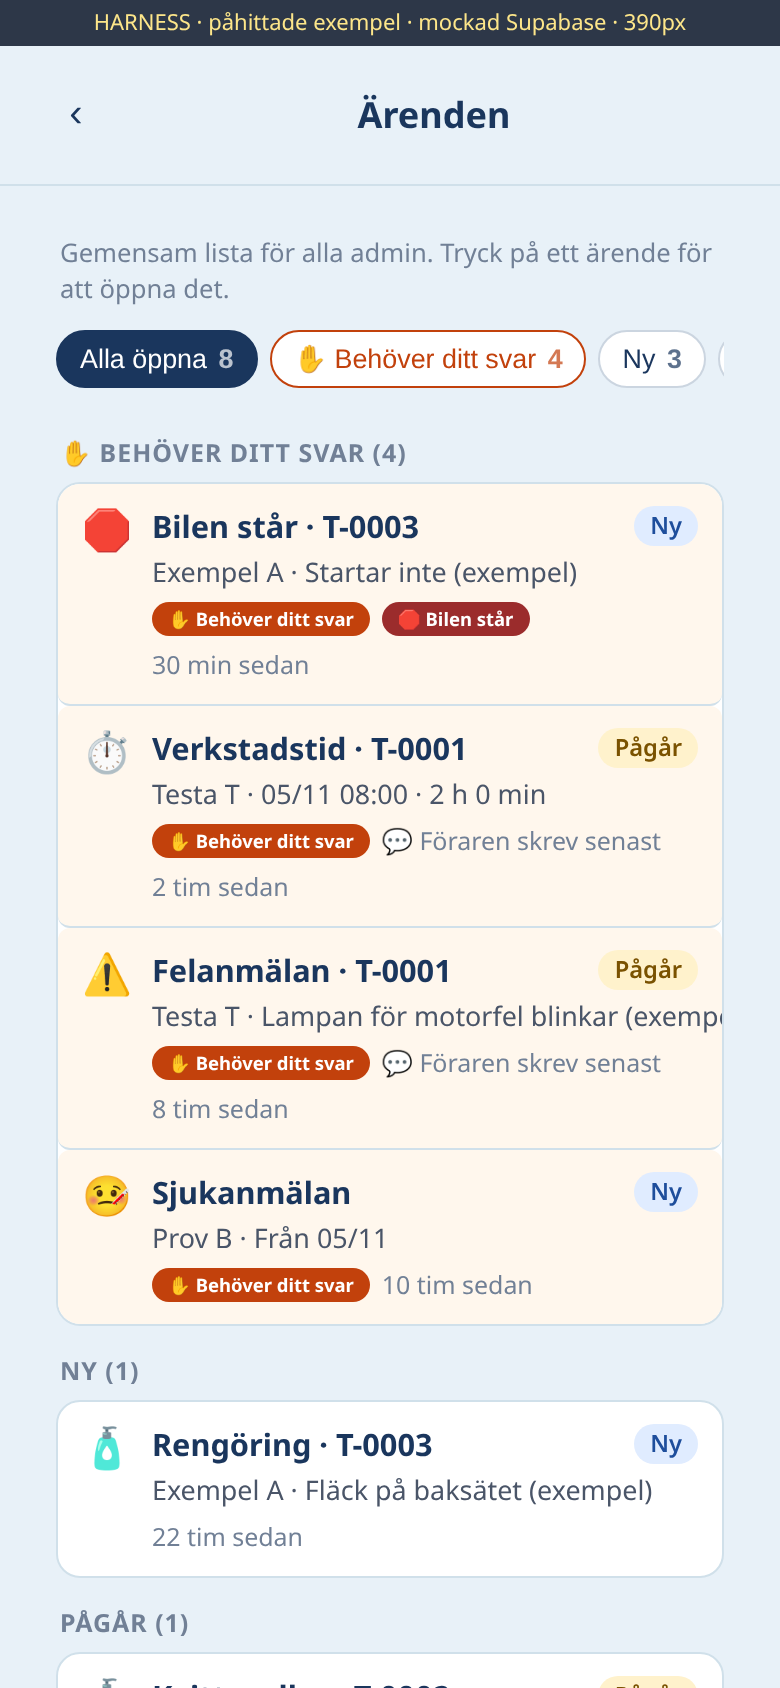
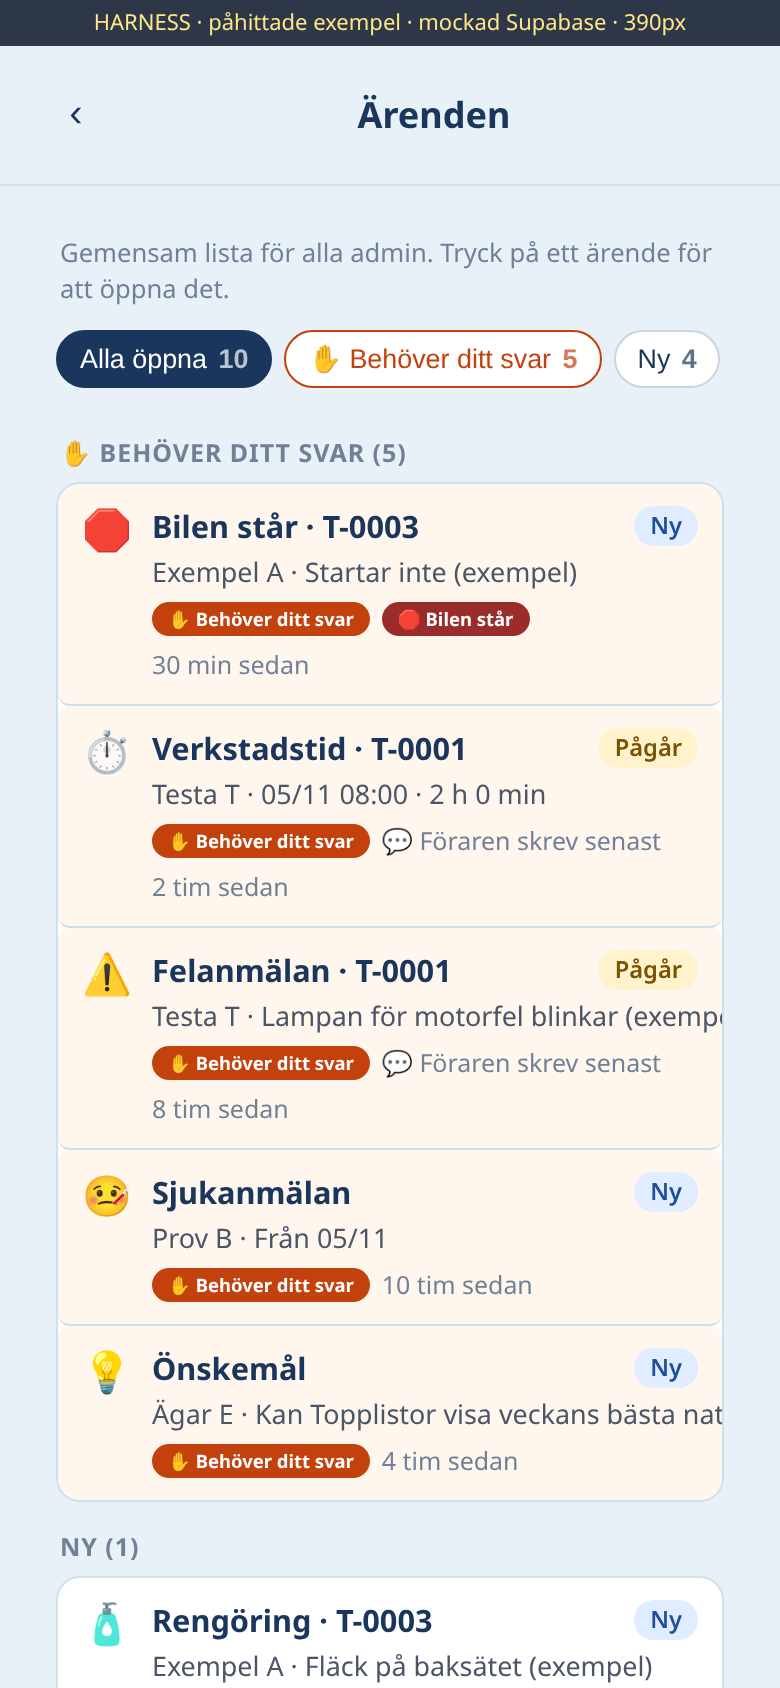
Inkorg: önskemål i Ärenden, klara göms aldrig (hämtas i omgångar), migration 20261106f

diff --git a/TaxiData/arenden-admin.js b/TaxiData/arenden-admin.js
@@ -1,18 +1,18 @@
 /* Admin › Ärenden – gemensam ärendelista för ägaren och S admin (2026-11-06, Christians "kör" t962u)
  * Inte en personlig inkorg: alla admin ser samma lista. Nya och olösta först, kompakt lista med rubriker.
  * Tryck på ett ärende för att öppna det separat, med verktyg: ändra status och svara (som en mejlkorg med adminverktyg).
- * Klara ärenden är ihopfällda ("Visa klara (N)"). Filter per status. "Behöver ditt svar" markeras tydligt.
- * Servern: case_admin_list, case_get, case_seen (supabase/migrations/20261106e_inkorg_arenden.sql).
+ * Klara ärenden är ihopfällda ("Visa klara (N)") men tas aldrig bort på grund av ålder. Önskemål (ägaren → Christian) finns med. Filter per status. "Behöver ditt svar" markeras tydligt.
+ * Servern: case_admin_list, case_get, case_seen (supabase/migrations/20261106f_inkorg_arenden.sql).
  * Verktygen använder de vanliga funktionerna: set_car_issue_status, car_issue_message, admin_workshop_decide,
  * workshop_ask, sjuk_decide. Inget nytt sätt att ändra ärenden.
  */
 (function () {
   var A = window.ARENDE, esc = A.esc;
   var R = window.ARENDEN_ADMIN = {};
-  var st = { data: null, err: null, filter: 'alla', showDone: false, open: null, cur: null, busy: false, el: null };
+  var st = { data: null, err: null, filter: 'alla', showDone: false, open: null, cur: null, busy: false, el: null, klarLim: 300 };
 
   R.count = function () {
-    return A.rpc('case_admin_list', {}).then(function (d) { st.data = d || { items: [] }; st.err = null; return R.needs(); })
+    return A.rpc('case_admin_list', { p_klar_limit: st.klarLim }).then(function (d) { st.data = d || { items: [] }; st.err = null; return R.needs(); })
       .catch(function (e) { st.err = e; return 0; });
   };
   R.needs = function () { return ((st.data && st.data.items) || []).filter(function (x) { return x.needs; }).length; };
@@ -31,6 +31,8 @@
   R.isOpen = function () { return !!st.open; };
   R.filter = function (f) { st.filter = f; paint(); };
   R.toggleDone = function () { st.showDone = !st.showDone; paint(); };
+  // Klara sparas för alltid (underlag); de hämtas i omgångar
+  R.more = function () { st.klarLim += 300; R.load(); };
   R.tap = function (kind, id) { R.openCase(kind, id); try { window.scrollTo(0, 0); } catch (e) {} };
 
   function row(x) {
@@ -63,8 +65,12 @@
       h += group('Väntar på svar från föraren', o.filter(function (x) { return !x.needs && x.st === 'vantar'; }));
       if (!o.length) h += '<div class="ar-list"><div class="ar-empty">Inga öppna ärenden. 👍</div></div>';
       if (sp.done.length) {
-        h += '<button type="button" class="ar-more" onclick="ARENDEN_ADMIN.toggleDone()">' + (st.showDone ? 'Dölj klara' : 'Visa klara (' + sp.done.length + ')') + '</button>';
-        if (st.showDone) h += '<div class="ar-list" style="margin-top:8px">' + sp.done.map(row).join('') + '</div>';
+        var tot = Math.max(st.data.klar_total || 0, sp.done.length);
+        h += '<button type="button" class="ar-more" onclick="ARENDEN_ADMIN.toggleDone()">' + (st.showDone ? 'Dölj klara' : 'Visa klara (' + tot + ')') + '</button>';
+        if (st.showDone) {
+          h += '<div class="ar-list" style="margin-top:8px">' + sp.done.map(row).join('') + '</div>';
+          if (tot > sp.done.length) h += '<button type="button" class="ar-more" onclick="ARENDEN_ADMIN.more()">Visa fler klara (' + (tot - sp.done.length) + ' till)</button>';
+        }
       }
     } else {
       var t = st.filter === 'needs' ? '✋ Behöver ditt svar' : A.WORDS[st.filter];
@@ -98,6 +104,8 @@
         (d.status !== 'avslagen' ? btn('Avslå (Klar)', "ARENDEN_ADMIN.act('avslagen')") : '') +
         (d.status !== 'ny' ? btn('↩ Öppna igen', "ARENDEN_ADMIN.act('ny')") : '') + '</div>' +
         '<div class="ar-note">Sjuklön och intyg hanteras som förut under Anmälningar & ärenden › Sjuk.</div>';
+    } else if (k === 'wish') {
+      h += '<div class="ar-note" style="margin-top:0">Önskemål till Christian. Status och svar sätts av Christian (via assistenten), inte här.</div>';
     } else if (k === 'task') {
       h += '<div class="ar-btns">' + btn('Öppna uppgiften i appen', "VERKSTAD_ADMIN.openApp('uppg')", 'pri') + '</div>';
     }

diff --git a/TaxiData/inkorg.js b/TaxiData/inkorg.js
@@ -2,13 +2,13 @@
  * Mina egna ärenden: felanmälan, behövs till bilen, verkstadstid, uppgift, sjukanmälan, önskemål.
  * Varje ärende är en tråd. Klockan (🔔) är kvar för notiser: när ägaren svarar på ett öppet ärende hamnar
  * svaret i tråden här och klockan får en kort notis som leder hit. Läser man svaret försvinner båda.
- * Servern: case_inbox, case_get, case_seen (supabase/migrations/20261106e_inkorg_arenden.sql).
+ * Servern: case_inbox, case_get, case_seen (supabase/migrations/20261106f_inkorg_arenden.sql).
  * Svar skickas med de vanliga funktionerna: car_issue_message (ärende), workshop_reply (verkstadstid).
  */
 (function () {
   var A = window.ARENDE, esc = A.esc;
   var I = window.INKORG = { id: 'inkorg', title: 'Inkorg' };
-  var st = { data: null, err: false, filter: 'alla', showDone: false, open: null, cur: null, busy: false, el: null };
+  var st = { data: null, err: false, filter: 'alla', showDone: false, open: null, cur: null, busy: false, el: null, klarLim: 300 };
 
   function badge() {
     var d = st.data || {}, n = (d.items || []).filter(function (x) { return x.needs || x.unread > 0; }).length;
@@ -20,7 +20,7 @@
   }
   I.refresh = function () {
     if (!localStorage.getItem('taxi_session')) return Promise.resolve();
-    return A.rpc('case_inbox', {}).then(function (d) { st.data = d || { items: [] }; st.err = false; badge(); if (st.el && !st.open) paint(); })
+    return A.rpc('case_inbox', { p_klar_limit: st.klarLim }).then(function (d) { st.data = d || { items: [] }; st.err = false; badge(); if (st.el && !st.open) paint(); })
       .catch(function (e) { if (e && e.code === '28000') return; st.err = true; if (st.el && !st.open) paint(); });
   };
   I.start = function () { I.refresh(); if (!I._t) I._t = setInterval(function () { if (!document.hidden) I.refresh(); }, 120000); };
@@ -46,6 +46,8 @@
   I.isAdmin = function () { return ['agare', 'superadmin'].indexOf(String(window.INKORG_ROLE || '')) >= 0; };
   I.filter = function (f) { st.filter = f; paint(); };
   I.toggleDone = function () { st.showDone = !st.showDone; paint(); };
+  // Klara sparas för alltid; de hämtas i omgångar så att listan går snabbt
+  I.more = function () { st.klarLim += 300; I.refresh(); };
   I.tap = function (kind, id) {
     st.open = { kind: kind, id: +id }; st.cur = null;
     try { history.pushState({ view: 'inkorg', c: kind + ':' + id }, ''); } catch (e) {}
@@ -78,8 +80,12 @@
       else if (!(st.filter === 'alla' && needs.length)) h += '<div class="ar-list"><div class="ar-empty">Inget här just nu. 👍</div></div>';
       if (sp.done.length) {
         var dn = sp.done.filter(function (x) { return x.unread > 0; }).length;
-        h += '<button type="button" class="ar-more" onclick="INKORG.toggleDone()">' + (st.showDone ? 'Dölj klara' : 'Visa klara (' + sp.done.length + ')' + (dn ? ' · ● ' + dn + ' nytt' : '')) + '</button>';
-        if (st.showDone) h += '<div class="ar-list" style="margin-top:8px">' + sp.done.map(row).join('') + '</div>';
+        var tot = Math.max(d.klar_total || 0, sp.done.length);
+        h += '<button type="button" class="ar-more" onclick="INKORG.toggleDone()">' + (st.showDone ? 'Dölj klara' : 'Visa klara (' + tot + ')' + (dn ? ' · ● ' + dn + ' nytt' : '')) + '</button>';
+        if (st.showDone) {
+          h += '<div class="ar-list" style="margin-top:8px">' + sp.done.map(row).join('') + '</div>';
+          if (tot > sp.done.length) h += '<button type="button" class="ar-more" onclick="INKORG.more()">Visa fler klara (' + (tot - sp.done.length) + ' till)</button>';
+        }
       }
     }
     el.innerHTML = h;

diff --git a/TaxiData/arende-status.js b/TaxiData/arende-status.js
@@ -1,7 +1,7 @@
 /* Samma statusord överallt (2026-11-06, Christians "kör" t962u)
  * Alla ärenden (felanmälan, behövs till bilen, verkstadstid, uppgift, sjukanmälan, önskemål, forum-förslag)
  * visas med fyra ord: Ny, Pågår, Väntar på svar, Klar. Värdena i databasen ändras inte, bara orden i appen.
- * Samma tabell finns i databasen: private.case_st (supabase/migrations/20261106e_inkorg_arenden.sql).
+ * Samma tabell finns i databasen: private.case_st (supabase/migrations/20261106f_inkorg_arenden.sql).
  * Används av inkorg.js (förarens Inkorg) och arenden-admin.js (Admin › Ärenden).
  */
 (function () {
@@ -60,14 +60,15 @@
   // Vilka rader syns: open = öppna (enligt filtret), done = klara (visas bara under "Visa klara (N)" eller i filtret Klar)
   A.split = function (items, f) {
     items = items || [];
-    if (f === 'klar') return { open: items.filter(function (x) { return x.st === 'klar'; }), done: [] };
+    if (f === 'klar') return { open: items.filter(function (x) { return x.st === 'klar'; }).sort(function (a, b) { return new Date(b.at) - new Date(a.at); }), done: [] };
     var open = items.filter(function (x) {
       if (x.st === 'klar') return false;
       if (f === 'needs') return x.needs;
       if (f && f !== 'alla') return x.st === f;
       return true;
     });
-    var done = (f === 'alla' || !f) ? items.filter(function (x) { return x.st === 'klar'; }) : [];
+    var byAt = function (a, b) { return new Date(b.at) - new Date(a.at); };   // klara: senast först
+    var done = (f === 'alla' || !f) ? items.filter(function (x) { return x.st === 'klar'; }).sort(byAt) : [];
     return { open: open, done: done };
   };
 
@@ -83,7 +84,7 @@
     var days = Math.round((today - new Date(d.getFullYear(), d.getMonth(), d.getDate())) / 86400000);
     if (days === 1) return 'i går';
     if (days < 7) return days + ' dagar sedan';
-    return d.getDate() + '/' + (d.getMonth() + 1);
+    return d.getDate() + '/' + (d.getMonth() + 1) + (d.getFullYear() !== new Date().getFullYear() ? ' ' + d.getFullYear() : '');
   };
   A.when = function (iso) {
     if (!iso) return '';
@@ -220,6 +221,7 @@
       if (d.status_at) rows.push({ at: d.status_at, h: sys('Status: ' + A.label('sjuk', d.status), d.status_at, d.status_comment ? (d.status_by ? esc(fname(d.status_by)) + ': ' : '') + '"' + esc(d.status_comment) + '"' : '') });
     } else if (c.kind === 'wish') {
       meta.push('Skrivet ' + esc(A.when(d.created_at)));
+      if (viewer === 'owner' && d.author && !d.mine) meta.push('av ' + esc(fname(d.author)));
       if (d.reply) rows.push({ at: d.updated_at, h: msg('Christian', d.updated_at, d.reply, false) });
     }
     rows.sort(function (a, b) { return new Date(a.at) - new Date(b.at); });

diff --git a/TaxiData/index.html b/TaxiData/index.html
@@ -166,8 +166,8 @@
   <script src="lonekoll.js?v=20261028sp1"></script>
   <script src="prognos.js?v=20261104kt2"></script>
   <script src="prognos-notis.js?v=20261103pg2"></script>
-  <script src="arende-status.js?v=20261106ik1"></script>
-  <script src="inkorg.js?v=20261106ik1"></script>
+  <script src="arende-status.js?v=20261106ik2"></script>
+  <script src="inkorg.js?v=20261106ik2"></script>
   <script src="notis.js?v=20261106ik1"></script>
   <script>
     // Vilka roller som ser varje ikon. Rollen kommer från servern (get_me), inte från något föraren kan ändra.

diff --git a/TaxiData/admin.html b/TaxiData/admin.html
@@ -163,8 +163,8 @@
   <script src="verkstad-admin.js?v=20261106ik1"></script>
   <script src="profilbild.js?v=zdm1"></script>
   <script src="onskemal-admin.js?v=20261106ik1"></script>
-  <script src="arende-status.js?v=20261106ik1"></script>
-  <script src="arenden-admin.js?v=20261106ik1"></script>
+  <script src="arende-status.js?v=20261106ik2"></script>
+  <script src="arenden-admin.js?v=20261106ik2"></script>
   <script>
     const APP_VERSION = '1.0.26';
     console.log('Admin version:', APP_VERSION);

diff --git a/docs/inkorg/README.md b/docs/inkorg/README.md
@@ -13,7 +13,10 @@ Christians "kör" 6 nov 18:50 (t962u) på tre punkter + Inkorg och gemensam äre
    Klockan 🔔 är kvar för notiser. När ägaren svarar på ett ärende får klockan en kort notis ("Nytt i Inkorgen") som öppnar tråden. Läser man svaret försvinner både pricken i Inkorgen och notisen.
 5. **Admin › Ärenden** (ny första ruta): gemensam lista för ägaren och S admin, inte en personlig inkorg.
    Nya och olösta först, rubriker, tryck för att öppna ärendet separat med verktyg (svara, ändra status).
-   Gamla Admin › Anmälningar & ärenden finns kvar som förut.
+   Önskemål (Berra → Christian) finns också med i listan. Status och svar på önskemål sätts av Christian, inte i appen.
+   Gamla Admin › Anmälningar & ärenden finns kvar som förut (flyttar senare till ett löneverktyg).
+6. **Inget göms för att det är gammalt.** Alla klara ärenden finns kvar (underlag), ihopfällda under "Visa klara (N)".
+   De hämtas i omgångar om 300 ("Visa fler klara") så att listan går snabbt. Gamla datum visar årtal.
 
 ## Statusord, gammalt → nytt
 | Ärende | Gammalt (databas → gammalt ord) | Nytt ord |
@@ -51,8 +54,8 @@ Christians "kör" 6 nov 18:50 (t962u) på tre punkter + Inkorg och gemensam äre
 - `TaxiData/verkstad.js`, `verkstad-admin.js`, `sjuk.js`, `onskemal-admin.js`, `forum.js` – bara statusorden
 
 ## SQL (bara tillägg)
-- `supabase/migrations/20261106e_inkorg_arenden.sql`
-- Ångra: `supabase/migrations/undo/20261106e_inkorg_arenden_undo.sql` (se UNDO.md)
+- `supabase/migrations/20261106f_inkorg_arenden.sql`
+- Ångra: `supabase/migrations/undo/20261106f_inkorg_arenden_undo.sql` (se UNDO.md)
 
 Nytt: kolumnerna `event_notices.case_kind/case_id`, tabellen `case_reads`, triggern `aa_case_tag`,
 funktionerna `case_inbox`, `case_get`, `case_seen`, `case_admin_list`, `private.case_st`.
@@ -64,7 +67,7 @@ Testat lokalt i PGlite (Postgres 18) med stubbar: inkorg, tråd, läst-markering
 behörighet (annat åkeri och förare nekas adminlistan), ångra, och att migrationen kan köras två gånger.
 
 ## Gå live (när Christian sagt kör)
-1. Kör `20261106e_inkorg_arenden.sql` i Supabase.
+1. Kör `20261106f_inkorg_arenden.sql` i Supabase.
 2. Merga PR:en (GitHub Pages).
 3. Nyheter-rad i `changelog.js`.
 

diff --git a/docs/inkorg/UNDO.md b/docs/inkorg/UNDO.md
@@ -7,7 +7,7 @@ Backup av main före ändringen: `backup/pre-inkorg-20261106` (= `913fb3e8`).
 - Efter merge: `git revert -m 1 <merge-commit>` på main (ingen force push).
 
 ## Databasen
-Kör `supabase/migrations/undo/20261106e_inkorg_arenden_undo.sql` i Supabase SQL editor.
+Kör `supabase/migrations/undo/20261106f_inkorg_arenden_undo.sql` i Supabase SQL editor.
 Den tar bort triggern, de nya funktionerna, tabellen `case_reads` och kolumnerna `case_kind/case_id`,
 och lägger tillbaka `notis_feed` exakt som den var 6 nov 2026. Inga ärenden, meddelanden eller notiser tas bort.
 
